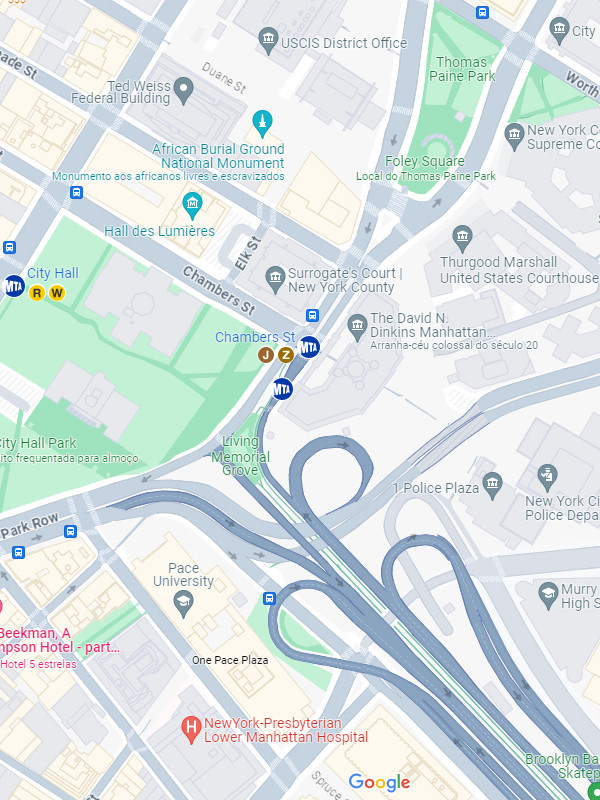
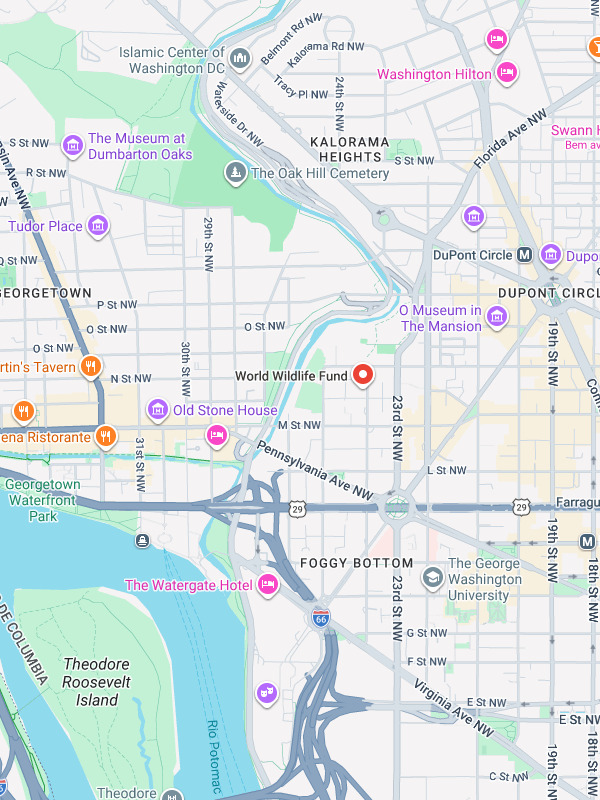
ajustes contato

diff --git a/index.html b/index.html
@@ -195,14 +195,14 @@
             </section>
             <section class="gridsection contato" data-anime="scroll" id="contato">
                 <h1 class="titulo titulob">Contato</h1>
-                <div class="mapa" data-tooltip aria-label="Endereço fictício para teste.">
+                <div class="mapa" data-tooltip aria-label="World Wild Life - ONG">
                     <img src="imagens/mapa.jpg" alt="Mapa">
                 </div>
                 <ul class="dados">
-                    <li>[email redacted]</li>
-                    <li>[phone redacted]</li>
-                    <li>Rua H, nº 12</li>
-                    <li>São Paulo - SP</li>
+                    <li>[email redacted]</li>
+                    <li>1-800-960-0993</li>
+                    <li>1250 24th St NW</li>
+                    <li>Washington, DC 20037</li>
                     <li>Doe <span class="btc-preco">0</span> bitcoin para nos ajudas</li>
                     <li data-semana="1,2,3,4,5" data-horario="8,18">Seg à Sex das 8 às 18</li>
                 </ul>